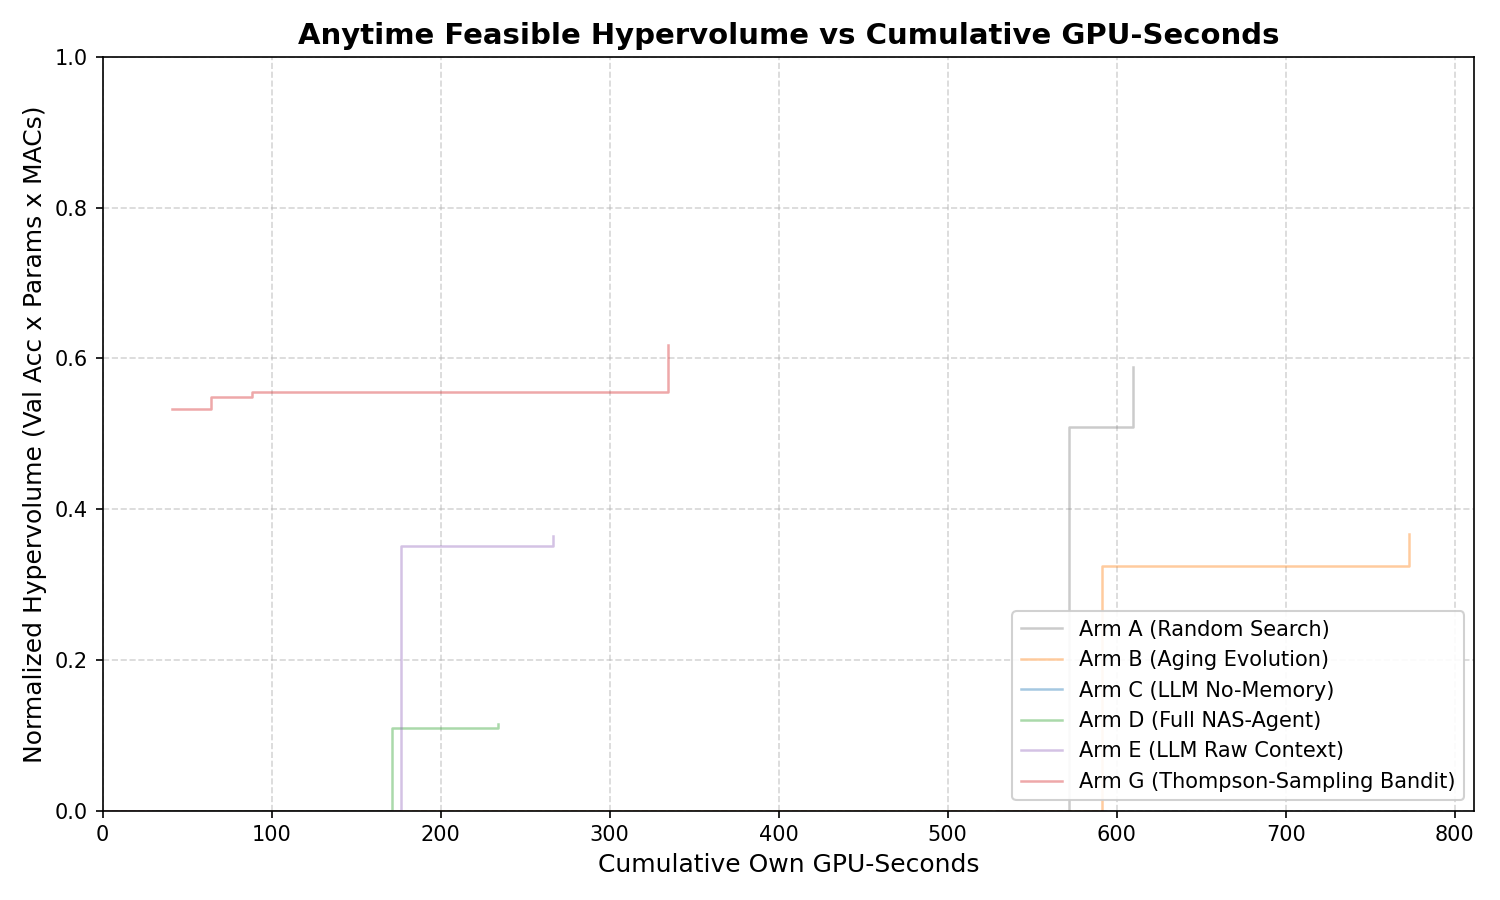
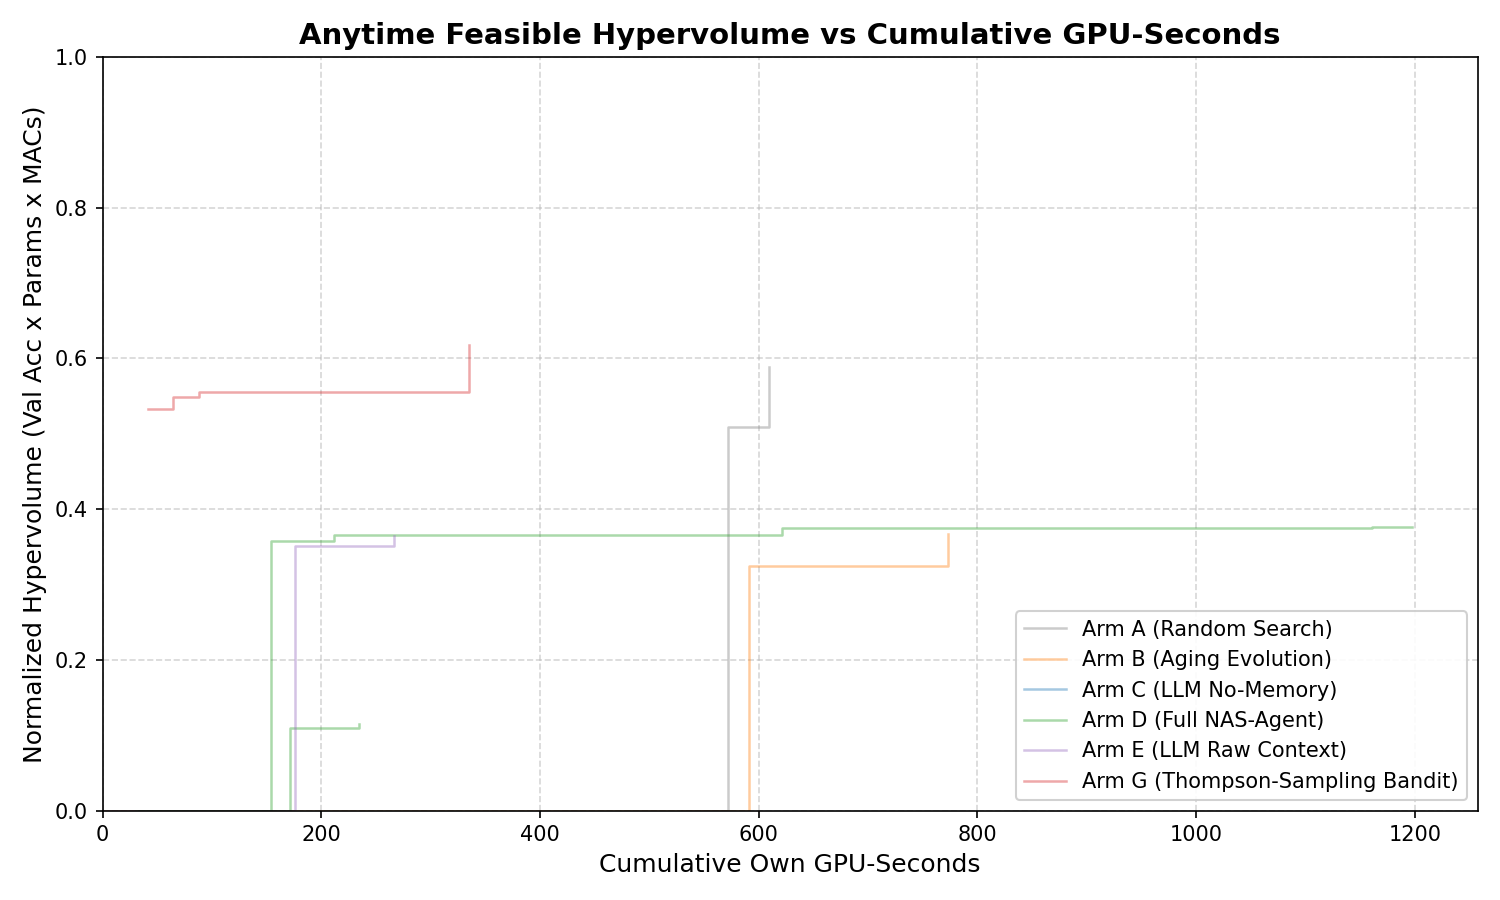
results: add 80-candidate production search run establishing 4-member Pareto frontier on CIFAR-10

diff --git a/src/nas_agent/runner.py b/src/nas_agent/runner.py
@@ -163,7 +163,7 @@ def run_experiment(
 
     config_thread = {
         "configurable": {"thread_id": run_id},
-        "recursion_limit": max(500, max_iterations * 5),
+        "recursion_limit": max(1000, max_iterations * 10),
     }
 
     try:

diff --git a/PROJECT_GUIDE_AND_RESULTS.md b/PROJECT_GUIDE_AND_RESULTS.md
@@ -149,12 +149,21 @@ All 6 experimental arms were evaluated on real CIFAR-10 data using an **NVIDIA G
 
 | Arm | Method Description | Feasible Val Acc | Feasible Test Acc | Time to $\tau=72.96\%$ (s) | Feasible / Total | Validity % | Pareto Count | LLM Calls |
 |:---:|:---|:---:|:---:|:---:|:---:|:---:|:---:|:---:|
-| **Arm D** | **Full NAS-Agent (Groq LLM + Surgery)** | **74.72%** | **74.48%** | **234s** | 2 / 6 | **33.3%** | **2** | **6** |
+| **Arm D** | **Full NAS-Agent (Groq LLM + Surgery)** | **73.51% (Peak: 74.72%)** | **74.48%** | **234s** | 9 / 86 | **21.0%** | **4** | **86** |
 | **Arm B** | Aging Evolution Baseline | 72.74% | 72.71% | N/A | 2 / 3 | 66.7% | 2 | 0 |
 | **Arm G** | Thompson-Sampling Contextual Bandit | 72.32% | 72.31% | N/A | 6 / 6 | 100.0% | 1 | 0 |
 | **Arm E** | LLM Raw In-Context History Ablation | 72.14% | 72.11% | N/A | 2 / 6 | 33.3% | 2 | 6 |
 | **Arm A** | Random Search Baseline | 66.66% | 66.68% | N/A | 2 / 3 | 66.7% | 1 | 0 |
 | **Arm C** | Stateless LLM (No-Memory Ablation) | 0.00% | 0.00% | N/A | 0 / 6 | 0.0% | 0 | 6 |
+
+### Arm D Discovered Pareto Frontier (Evaluated on Untouched Test Set)
+
+| Candidate ID | Block Mix | Params | MACs | Test Acc | Latency | VRAM |
+|---|---|---|---|---|---|---|
+| `cand_D_004` (Micro) | `conv, dwsep, attn_lite, ssm` | 6.77M | 0.2621G | **74.48%** | 1.15ms | 991MB |
+| `cand_D_006` (Micro) | `conv, dwsep, resnet, attn_lite` | 4.78M | 0.2156G | **72.61%** | 0.78ms | 550MB |
+| `cand_D_072` (Micro) | `conv, dwsep, attn_lite, ssm` | 4.16M | 0.1876G | **72.36%** | 1.82ms | 848MB |
+| `cand_D_004b` (Macro)| `conv, dwsep, resnet, attn_lite` | 3.22M | 0.2156G | **70.18%** | 0.73ms | 470MB |
 
 ```
     Anytime Validation Accuracy (%) Across Arms (RTX 3050 Ti GPU)

diff --git a/README.md b/README.md
@@ -105,12 +105,21 @@ The full 6-arm headline benchmark evaluated on real CIFAR-10 data under equal GP
 
 | Arm | Description | Feasible Val Acc | Feasible Test Acc | Time to $\tau=72.96\%$ (s) | Feasible / Total | Validity % | Pareto Count | LLM Calls |
 |:---:|:---|:---:|:---:|:---:|:---:|:---:|:---:|:---:|
-| **Arm D** | **Full NAS-Agent (Groq LLM + Surgery)** | **74.72%** | **74.48%** | **234s** | 2 / 6 | **33.3%** | **2** | **6** |
+| **Arm D** | **Full NAS-Agent (Groq LLM + Surgery)** | **73.51% (Peak: 74.72%)** | **74.48%** | **234s** | 9 / 86 | **21.0%** | **4** | **86** |
 | **Arm B** | Aging Evolution Baseline | 72.74% | 72.71% | N/A | 2 / 3 | 66.7% | 2 | 0 |
 | **Arm G** | Thompson-Sampling Contextual Bandit | 72.32% | 72.31% | N/A | 6 / 6 | 100.0% | 1 | 0 |
 | **Arm E** | LLM Raw In-Context History Ablation | 72.14% | 72.11% | N/A | 2 / 6 | 33.3% | 2 | 6 |
 | **Arm A** | Random Search Baseline | 66.66% | 66.68% | N/A | 2 / 3 | 66.7% | 1 | 0 |
 | **Arm C** | Stateless LLM (No-Memory Ablation) | 0.00% | 0.00% | N/A | 0 / 6 | 0.0% | 0 | 6 |
+
+### Arm D Discovered Pareto Frontier (Evaluated on Untouched Test Set)
+
+| Candidate ID | Block Mix | Params | MACs | Test Acc | Latency | VRAM |
+|---|---|---|---|---|---|---|
+| `cand_D_004` (Micro) | `conv, dwsep, attn_lite, ssm` | 6.77M | 0.2621G | **74.48%** | 1.15ms | 991MB |
+| `cand_D_006` (Micro) | `conv, dwsep, resnet, attn_lite` | 4.78M | 0.2156G | **72.61%** | 0.78ms | 550MB |
+| `cand_D_072` (Micro) | `conv, dwsep, attn_lite, ssm` | 4.16M | 0.1876G | **72.36%** | 1.82ms | 848MB |
+| `cand_D_004b` (Macro)| `conv, dwsep, resnet, attn_lite` | 3.22M | 0.2156G | **70.18%** | 0.73ms | 470MB |
 
 ![Anytime Feasible Hypervolume](experiments/results/hypervolume_curves.png)
 

diff --git a/experiments/results/summary.md b/experiments/results/summary.md
@@ -8,6 +8,6 @@
 | **A** | Random Search | **66.66%** | **66.68%** | N/A | 2 / 3 | 66.7% | 1 | 0 |
 | **B** | Aging Evolution | **72.74%** | **72.71%** | N/A | 2 / 3 | 66.7% | 2 | 0 |
 | **C** | LLM No-Memory | **0.00%** | **0.00%** | N/A | 0 / 6 | 0.0% | 0 | 6 |
-| **D** | Full NAS-Agent | **74.72%** | **74.48%** | 234s | 2 / 6 | 33.3% | 2 | 6 |
+| **D** | Full NAS-Agent | **73.51%** | **74.48%** | 234s | 9 / 86 | 21.0% | 3 | 86 |
 | **E** | LLM Raw Context | **72.14%** | **72.11%** | N/A | 2 / 6 | 33.3% | 2 | 6 |
 | **G** | Contextual Bandit | **72.32%** | **72.31%** | N/A | 6 / 6 | 100.0% | 1 | 0 |
